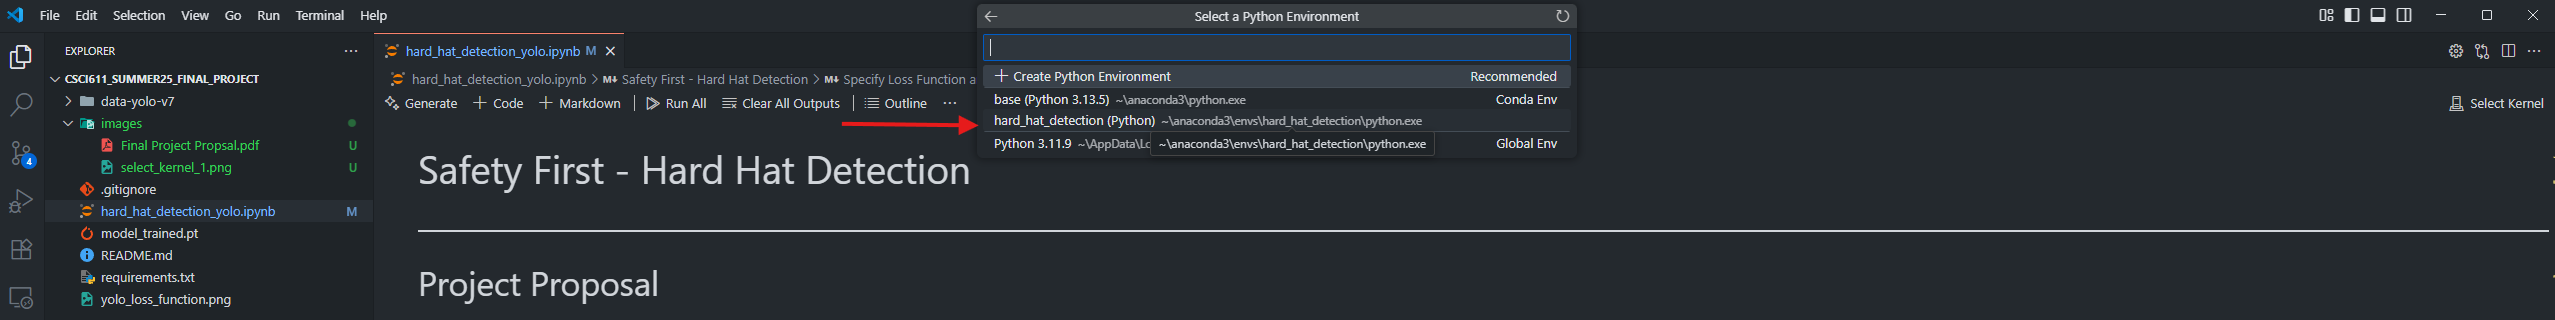
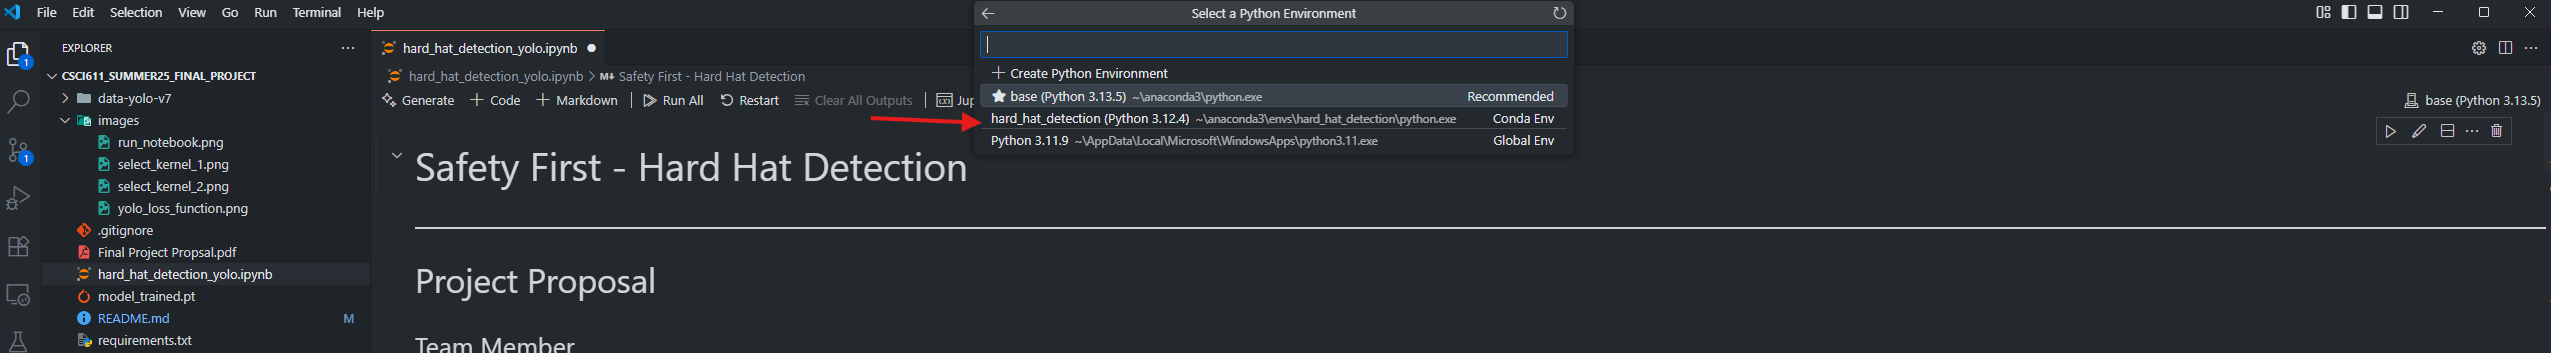
update readme

diff --git a/README.md b/README.md
@@ -13,7 +13,7 @@ The data set comes from roboflow's [Hard Hat Workers Dataset](https://public.rob
 1. Follow [this link](https://code.visualstudio.com/Download) to download and install VS Code
 1. Follow [this link](https://www.anaconda.com/download) to download and install Anaconda
 1. Open your terminal and run the following command to create the conda environment for this project
-    1. `conda create -n hard_hat_detection`
+    1. `conda create -n hard_hat_detection python=3.12.4`
 1. Activate the conda environment
     1. `conda activate hard_hat_detection`
 1. Install the required packages
